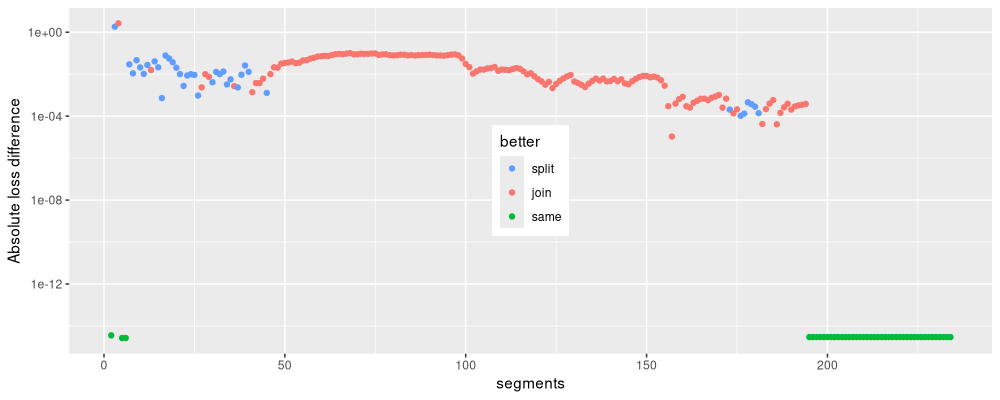
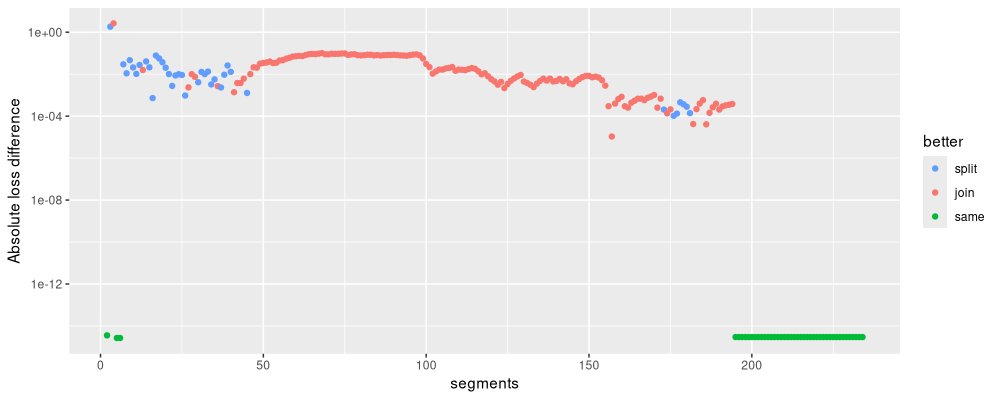
bin seg mention ward

diff --git a/_posts/2025-10-06-bin-seg-div-agg.md b/_posts/2025-10-06-bin-seg-div-agg.md
@@ -16,6 +16,19 @@ We begin by loading an example data set.
 ``` r
 data(neuroblastoma, package="neuroblastoma")
 library(data.table)
+```
+
+```
+## data.table 1.17.99 EN DEVELOPPEMENT build 2025-07-18 04:20:25 UTC; root utilisant 1 threads (voir ?getDTthreads).  Dernières actualités : r-datatable.com
+## **********
+## Running data.table in English; package support is available in English only. When searching for online help, be sure to also check for the English error message. This can be obtained by looking at the po/R-<locale>.po and po/<locale>.po files in the package source, where the native language and English error messages can be found side-by-side. You can also try calling Sys.setLanguage('en') prior to reproducing the error message.
+## **********
+## **********
+## Cette version de développement de data.table a été construite il y a plus de 4 semaines. Veuillez mettre à jour : data.table::update_dev_pkg()
+## **********
+```
+
+``` r
 nb.dt <- data.table(neuroblastoma[["profiles"]])
 one.dt <- nb.dt[profile.id==4 & chromosome==2]
 one.dt
@@ -441,7 +454,7 @@ ggplot()+
     data=wide.dt)+
   scale_y_log10("Absolute loss difference")+
   scale_color_discrete(breaks=c("split","join","same"))+
-  theme(legend.position=c(0.5,0.5))
+  theme(legend.position.inside=c(0.5,0.5))
 ```
 
 ![plot of chunk loss-all-models](/assets/img/2025-10-06-bin-seg-div-agg/loss-all-models-1.png)
@@ -556,7 +569,8 @@ ggplot()+
 ```
 
 ```
-## Warning: Removed 1 row containing missing values or values outside the scale range (`geom_point()`).
+## Warning: Removed 1 row containing missing values or values outside the scale range
+## (`geom_point()`).
 ```
 
 ![plot of chunk compare-first-it](/assets/img/2025-10-06-bin-seg-div-agg/compare-first-it-1.png)
@@ -709,8 +723,7 @@ ggplot()+
 
 The figure above shows several agglomerative clustering models,
 using either distance or loss minimization.
-We see that the models are the same for three segments,
-but in general they are different.
+We see that in general they are quite different (min/single linkage used, so Ward linkage should give different results).
 Below we visualize the distances computed by the algorithm.
 
 
@@ -780,8 +793,8 @@ sessionInfo()
 ## [1] ggplot2_3.5.2      data.table_1.17.99
 ## 
 ## loaded via a namespace (and not attached):
-##  [1] labeling_0.4.3     RColorBrewer_1.1-3 R6_2.6.1           xfun_0.53          tidyselect_1.2.1   farver_2.1.2       magrittr_2.0.4    
+##  [1] labeling_0.4.3     RColorBrewer_1.1-3 R6_2.6.1           tidyselect_1.2.1   xfun_0.53          farver_2.1.2       magrittr_2.0.4    
 ##  [8] gtable_0.3.6       glue_1.8.0         tibble_3.3.0       knitr_1.50         pkgconfig_2.0.3    generics_0.1.4     dplyr_1.1.4       
 ## [15] lifecycle_1.0.4    cli_3.6.5          scales_1.4.0       grid_4.6.0         vctrs_0.6.5        withr_3.0.2        compiler_4.6.0    
-## [22] tools_4.6.0        evaluate_1.0.5     pillar_1.11.0      crayon_1.5.3       rlang_1.1.6
+## [22] tools_4.6.0        pillar_1.11.0      evaluate_1.0.5     rlang_1.1.6
 ```

diff --git a/_posts/2025-10-15-ward-clustering.md b/_posts/2025-10-15-ward-clustering.md
@@ -1,0 +1,37 @@
+---
+layout: post
+title: Ward clustering
+description: Review of existing segmentation and clustering 
+---
+
+How fast is [Ward clustering](https://en.wikipedia.org/wiki/Ward%27s_method)?
+This is an agglomerative/hierarchical clustering algorithm which can be implemented in terms of joining data points by minimizing pairwise distances (like single linkage), and it can be interpreted as minimizing the within-cluster sum of squares (like binary segmentation).
+
+## In theory
+
+The [hierarchical clustering](https://en.wikipedia.org/wiki/Hierarchical_clustering) wikipedia page says it is cubic, `O(N^3)` in the general case.
+
+* Have to compute `O(N^2)` pairwise distance matrix.
+* Then need to perform `N-1` joins.
+* So overall depends on how fast each join can be computed.
+* Each join using single linkage (min) criterion is `O(N)`, so overall `O(N^2)`.
+* Ward algorithm is a special case of the [Lance-Williams algorithms](https://en.wikipedia.org/wiki/Ward%27s_method#Lance%E2%80%93Williams_algorithms), which is when each new distance, after cluster join, can be computed using a simple `O(1)` update rule. So each join event requires `O(N)` time to re-compute distances. Computing all `N-1` join events therefore takes `O(N^2)` time.
+
+## With constraints
+
+In an application to HiC data, the `N` samples we want to cluster occur on a 2D grid.
+Assuming 4-connectivity, we can only join with 4 neighbors (not `N-1`), so the algorithm should be faster.
+But we want to avoid computing the `O(N^2)` pairwise distance matrix, so we can no longer use a Lance-Williams update rule.
+Instead we would have to update cluster means, which we use to compute new distances.
+
+## In code
+
+[_agglomerative.py](https://github.com/scikit-learn/scikit-learn/blob/c60dae2060/sklearn/cluster/_agglomerative.py) has `ward_tree()` has a recursive merge loop.
+
+* It uses a heap, keeps distances sorted.
+* It uses moments matrices: `moments_1` is the number of samples (clusters x 1), and `moments_2` is the matrix of sums (clusters x features).
+
+[_hierarchical_fast.pyx](https://github.com/scikit-learn/scikit-learn/blob/c60dae20604f8b9e585fc18a8fa0e0fb50712179/sklearn/cluster/_hierarchical_fast.pyx)
+has `compute_ward_dist()` which has two for loops: `size_max` (I guess clusters) and `n_features`.
+
+It is not clear whether or not the cumulative sum trick would be faster than this python code. Maybe not, if the new distance can be computed in constant time given the means, which seems to be the case based on the formula involving the difference of two means from [Hierarchical Clustering, Cluster Linkage](https://en.wikipedia.org/wiki/Hierarchical_clustering#Cluster_Linkage).
